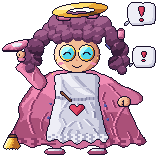
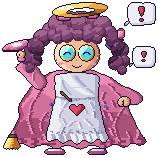
fix: 엄마 보스 같은 모양 반복 110 → 56 (가디건 주름 폭 · 허리띠 잡힌 자국 · 프릴 · 단추 모양 다르게), 도감 아이콘 렌즈를 개발자 안경 하늘색으로
- 판정 수치 그대로 (큰 평면 763 · 551 · 531, lint 7 2.22 이상, 앞치마 기본색 몫 44.2%, 외곽 직선 · 세로 줄 0, lint 4프레임 통과)
- PPU · 칸 크기 · .meta 그대로 (판정 표 무관)

Claude-Session: https://claude.ai/code/session_01HmvQQ1hsRYGi8heaUfoQqt

diff --git a/tools/pixelart/hires/bosses/mom.py b/tools/pixelart/hires/bosses/mom.py
@@ -60,12 +60,12 @@ HALO_I = (80.6, 11.0, 13.6, 2.3)
 FACE = (77.0, 54.5, 23.5, 18.5)
 # 파마 곱슬 덩이 (가운데 x, y, 반지름) — 손으로 놓음 · 크기 · 간격 섞음 (같은 공 도장 금지)
 PERM = [(76, 40, 17), (50, 30, 8), (58, 23.5, 10), (70, 19, 8), (81, 21.5, 11), (93, 19, 8), (102.5, 25, 9.5), (110, 32.5, 7),
-        (42, 38, 9), (53, 35, 6), (62, 30.5, 7), (88, 30, 6), (98, 33, 7), (114.5, 40, 9.5), (34, 48.5, 10.5), (27.5, 58, 7),
+        (42, 38, 9), (53, 35, 6.4), (62, 30.5, 7), (88, 30, 6), (98, 33, 7), (114.5, 40, 9.1), (34, 48.5, 10.5), (27.5, 58, 7),
         (36.5, 60.5, 6), (30, 68, 5), (120, 50, 9), (124.5, 61, 6), (115.5, 63, 7.5), (122, 70, 5)]
 BANGS = [(58, 39, 5.5), (67, 36.5, 6.5), (78, 35.5, 5.6), (88, 36.5, 6.4), (97, 39.5, 5)]
 CURL_HL = [("cA", 52, 16), ("cB", 74, 12), ("cC", 96, 13), ("cD", 27, 42), ("cE", 114, 43), ("cF", 39, 30),
            ("cG", 64, 25), ("cH", 88, 24), ("cI", 31, 54), ("cJ", 118, 56)]
-BUTTONS = [("btnA", 49, 102), ("btnB", 47, 116), ("btnC", 45, 130), ("btnB", 104, 104), ("btnA", 106, 118), ("btnC", 108, 132)]
+BUTTONS = [("btnA", 49, 102), ("btnB", 47, 116), ("btnC", 45, 130), ("btnD", 104, 104), ("btnE", 106, 118), ("btnF", 108, 132)]
 CARD = [(64, 70), (90, 70), (102, 74), (113, 79), (121, 85), (131, 89), (140, 94), (142.4, 99.5), (137, 104), (129, 104.5), (129.5, 111),
         (133, 118), (136.5, 126), (141, 134), (146, 141), (140, 145.2), (132, 143.4), (124, 147.4), (114, 144.2), (104, 148.2), (92, 145),
         (80, 149), (68, 145.2), (56, 148.2), (44, 144.4), (32, 147.4), (22, 143.4), (12, 146), (7, 141), (11, 133), (16, 124), (19.4, 116),
@@ -78,6 +78,9 @@ APRON = [(58, 74), (95, 74), (99, 84), (98, 96), (100, 106), (103, 120), (106, 1
 def ell(C, e, dx=0, dy=0):
     cx, cy, rx, ry = e
     return kit.ellipse(C, cx + dx, cy + dy, rx, ry)
+
+
+PERM_GRAIN = (0.035, 0.9, 1.3)       # 곱슬 결 (세기 · 가로 · 세로 진동수)
 
 
 def perm_paint(p, lobes, dy=0, cloud=(76, 40, 50, 32), cuts=(0.34, 0.56, 0.76)):
@@ -101,7 +104,8 @@ def perm_paint(p, lobes, dy=0, cloud=(76, 40, 50, 32), cuts=(0.34, 0.56, 0.76)):
     ng = shade.from_height(hg, allm, depth=30)
     lamG = shade.lambert(ng, shade.LIGHT, wrap=0.3)
     v = 0.62 * lamG + 0.38 * lamL
-    t = np.digitize(v + 0.035 * np.sin(xs * 0.9 + ys * 1.3), cuts)      # 곱슬 결: 띠 경계가 곧게 이어지지 않게 (공 덩이 명암 줄임)
+    ga, gx_, gy_ = PERM_GRAIN
+    t = np.digitize(v + ga * np.sin(xs * gx_ + ys * gy_), cuts)      # 곱슬 결: 띠 경계가 곧게 이어지지 않게 (공 덩이 명암 줄임)
     # 앞 덩이 경계: 이웃(왼 · 위)이 다른 덩이인 칸 = 한 단계 어둡게 (덩이 사이 곱슬 홈)
     seam = allm & (((np.roll(owner, 1, 1) != owner) & np.roll(allm, 1, 1)) | ((np.roll(owner, 1, 0) != owner) & np.roll(allm, 1, 0)))
     t = np.where(seam, np.maximum(t - 1, 0), t)
